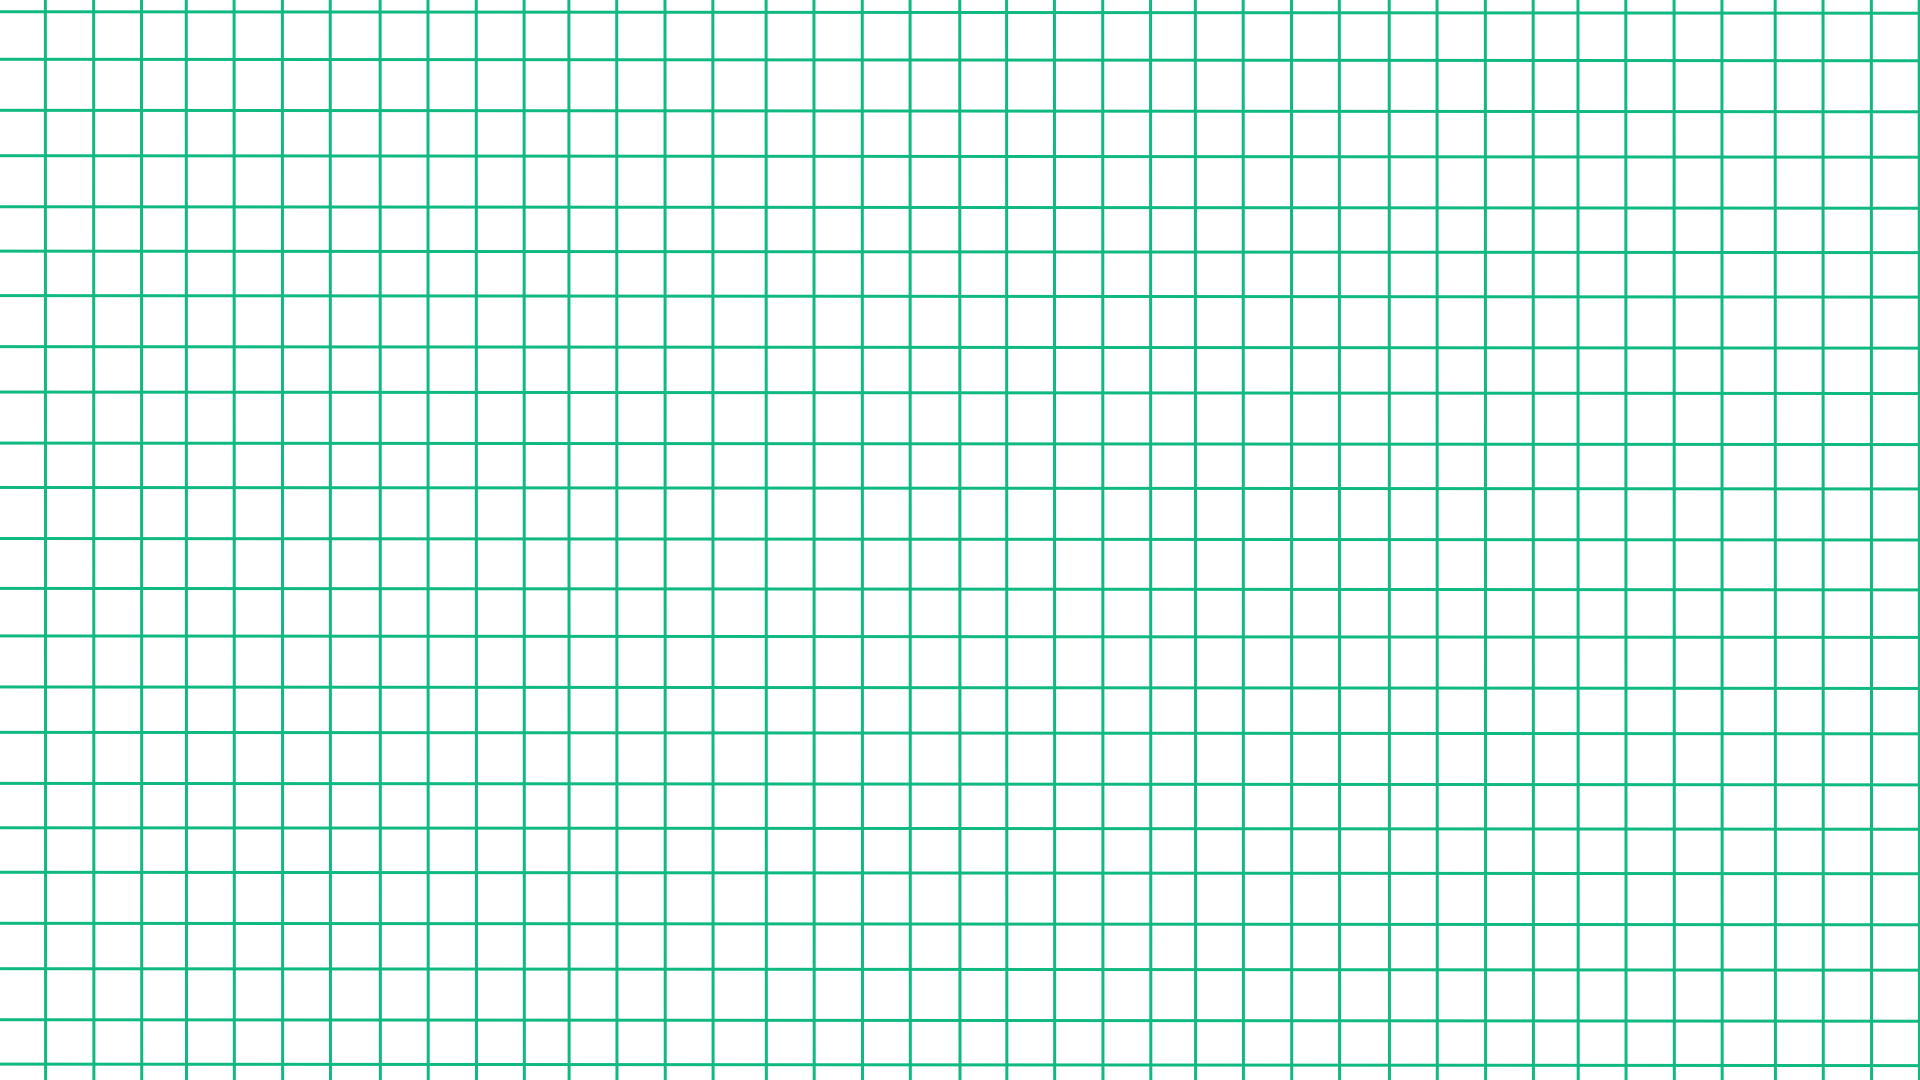
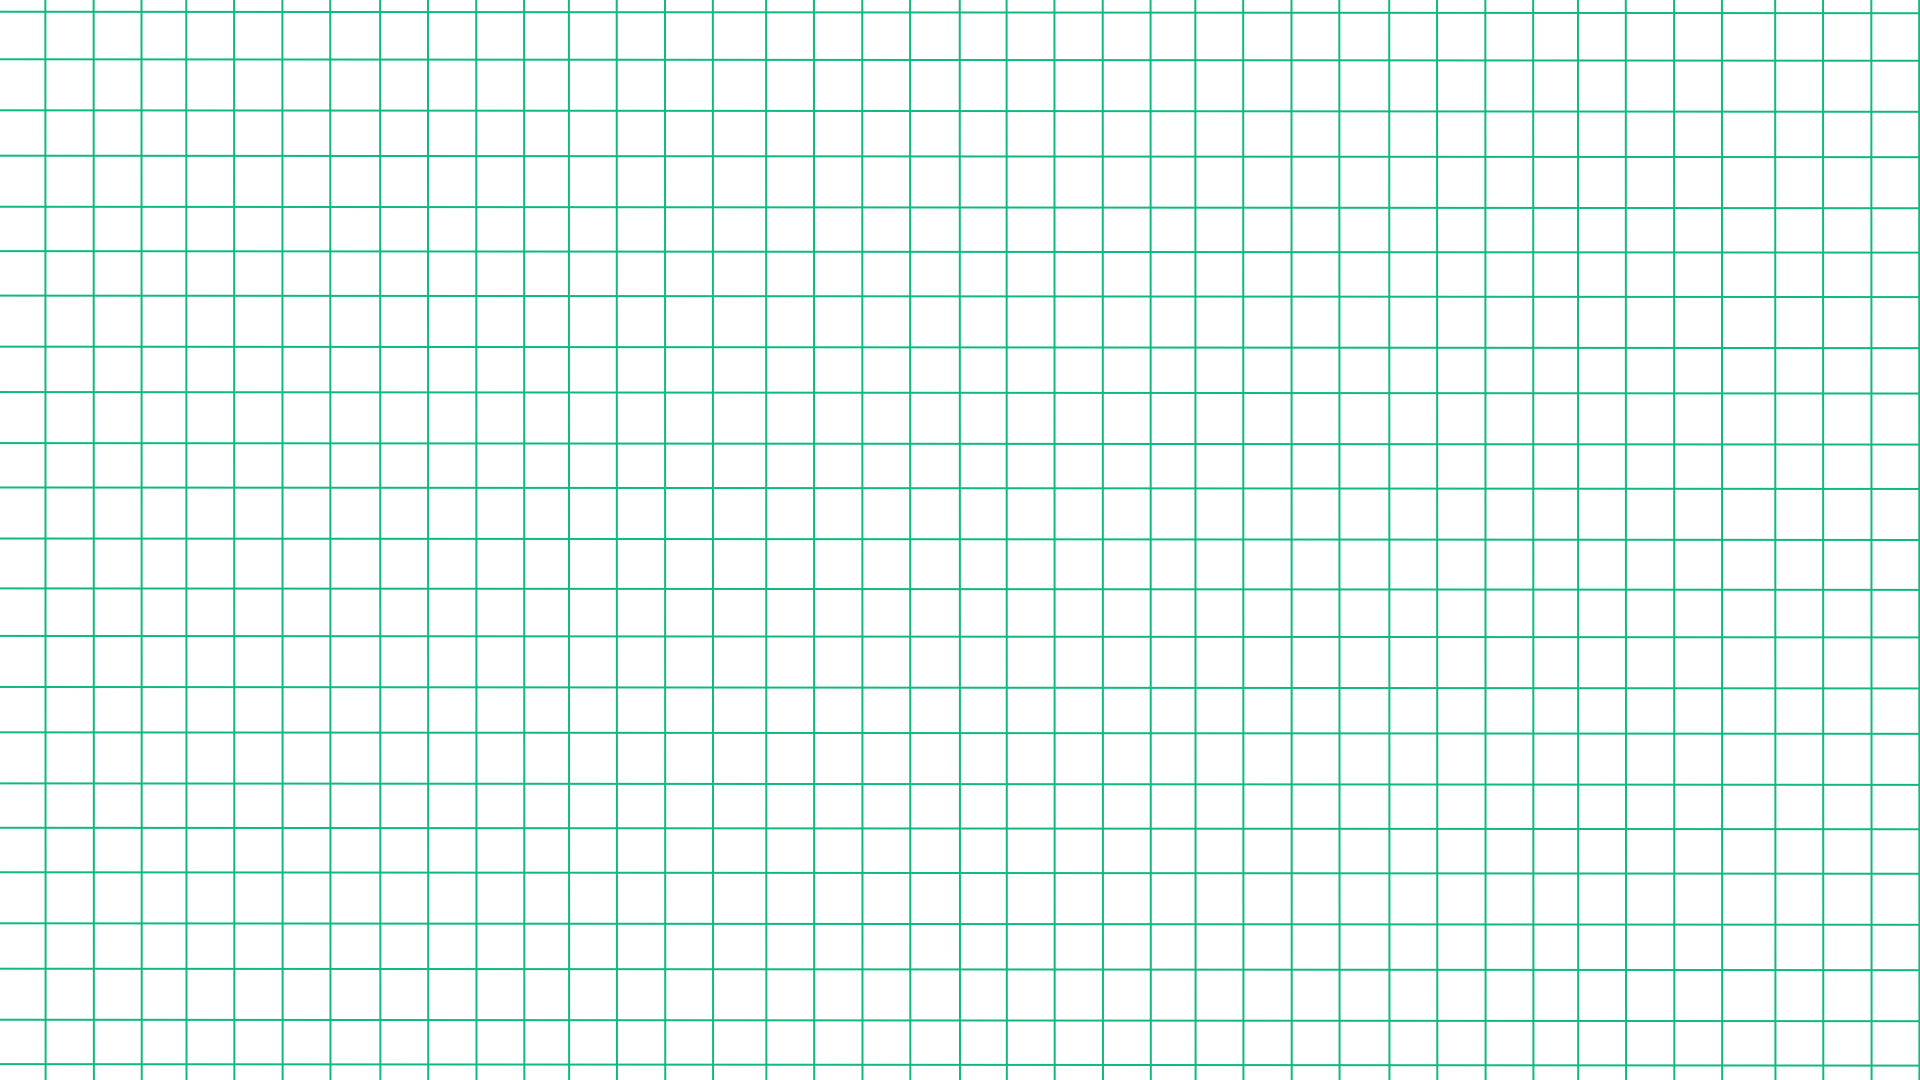
feat: hero & bg

diff --git a/src/app/components/hero/hero.css b/src/app/components/hero/hero.css
@@ -1,0 +1,100 @@
+/* Capa de difuminado detrás de los CONTENEDORES (título, subtítulo, grupo de
+   botones y tag). Va en un ::before con z-index: -1, así queda siempre detrás
+   del contenido y nunca se proyecta encima del texto ni de los elementos. */
+.content-backdrop {
+  position: relative;
+  z-index: 0;
+}
+
+.content-backdrop::before {
+  content: "";
+  position: absolute;
+  inset: -28px;
+  z-index: -1;
+  pointer-events: none;
+  background: radial-gradient(
+    ellipse at center,
+    #000916 0%,
+    #000916 58%,
+    rgba(0, 9, 22, 0.92) 74%,
+    transparent 92%
+  );
+  filter: blur(14px);
+}
+
+.hero-gradient {
+  background: linear-gradient(95deg, #34d399 0%, #6ee7b7 55%, #d6fff1 100%);
+  -webkit-background-clip: text;
+  background-clip: text;
+  color: transparent;
+}
+
+/* Botón primario (relleno verde) */
+.btn-primary {
+  display: inline-flex;
+  align-items: center;
+  justify-content: center;
+  padding: 0.7rem 1.5rem;
+  border-radius: 0.5rem;
+  background-color: #34d399;
+  color: #00160f;
+  font-weight: 600;
+  transition: background-color 0.2s ease, transform 0.2s ease;
+}
+
+.btn-primary:hover {
+  background-color: #6ee7b7;
+  transform: translateY(-1px);
+}
+
+/* Botón secundario (contorno, fondo sólido del color de página) */
+.btn-outline {
+  display: inline-flex;
+  align-items: center;
+  justify-content: center;
+  padding: 0.7rem 1.5rem;
+  border-radius: 0.5rem;
+  border: 1px solid #33415580;
+  background-color: #000916;
+  color: #e2e8f0;
+  font-weight: 500;
+  transition: background-color 0.2s ease, border-color 0.2s ease;
+}
+
+.btn-outline:hover {
+  background-color: #0b1a2e;
+  border-color: #475569;
+}
+
+/* Badge de disponibilidad */
+.availability-badge {
+  display: inline-flex;
+  align-items: center;
+  gap: 0.5rem;
+  padding: 0.5rem 1rem;
+  border-radius: 9999px;
+  border: 1px solid rgba(52, 211, 153, 0.3);
+  background-color: rgba(52, 211, 153, 0.05);
+  color: #cbd5e1;
+  font-size: 0.875rem;
+}
+
+.availability-dot {
+  width: 0.5rem;
+  height: 0.5rem;
+  border-radius: 9999px;
+  background-color: #34d399;
+  animation: availability-pulse 2s infinite;
+}
+
+@keyframes availability-pulse {
+  0% {
+    box-shadow: 0 0 0 0 rgba(52, 211, 153, 0.6);
+  }
+  70% {
+    box-shadow: 0 0 0 6px rgba(52, 211, 153, 0);
+  }
+  100% {
+    box-shadow: 0 0 0 0 rgba(52, 211, 153, 0);
+  }
+}

diff --git a/src/app/components/hero/hero.html b/src/app/components/hero/hero.html
@@ -1,0 +1,29 @@
+<section id="inicio" class="w-full">
+  <div class="mx-auto max-w-4xl px-6 py-20 lg:py-28 flex flex-col items-center text-center">
+    <!-- Título -->
+    <h1 class="content-backdrop text-4xl md:text-5xl lg:text-6xl font-bold leading-tight tracking-tight text-white">
+      <span class="hero-gradient">INGENIERO DE SOFTWARE</span>
+      especializado en arquitecturas web y sistemas distribuidos.
+    </h1>
+
+    <!-- Subtítulo -->
+    <p class="content-backdrop mt-6 max-w-2xl text-sm md:text-base uppercase tracking-wider leading-relaxed text-slate-400">
+      Construyendo aplicaciones escalables, APIs robustas e interfaces de alto
+      rendimiento con un enfoque práctico y orientado a resultados.
+    </p>
+
+    <!-- Acciones -->
+    <div class="content-backdrop mt-8 inline-flex flex-wrap items-center justify-center gap-4">
+      <a href="#proyectos" class="btn-primary">Ver Proyectos</a>
+      <a href="#" class="btn-outline">Descargar CV</a>
+    </div>
+
+    <!-- Disponibilidad -->
+    <div class="content-backdrop mt-6 inline-flex">
+      <span class="availability-badge">
+        <span class="availability-dot"></span>
+        Disponible para nuevos proyectos / contratos
+      </span>
+    </div>
+  </div>
+</section>

diff --git a/src/app/pages/landing/landing.css b/src/app/pages/landing/landing.css
@@ -1,0 +1,33 @@
+.hero-mesh {
+    position: absolute;
+    top: 0;
+    left: 0;
+    right: 0;
+    height: 820px;
+    background-image: url('/images/background-mesh.png');
+    background-repeat: no-repeat;
+    background-position: top center;
+    background-size: cover;
+    opacity: 0.7;
+    pointer-events: none;
+    /* Concentra la rejilla al centro-superior, la desvanece hacia los bordes
+       y difumina el borde superior para que no arranque de golpe */
+    -webkit-mask-image:
+        radial-gradient(
+            ellipse 55% 65% at 50% 22%,
+            #000 0%,
+            rgba(0, 0, 0, 0.55) 45%,
+            transparent 80%
+        ),
+        linear-gradient(to bottom, transparent 0%, #000 18%);
+    -webkit-mask-composite: source-in;
+    mask-image:
+        radial-gradient(
+            ellipse 55% 65% at 50% 22%,
+            #000 0%,
+            rgba(0, 0, 0, 0.55) 45%,
+            transparent 80%
+        ),
+        linear-gradient(to bottom, transparent 0%, #000 18%);
+    mask-composite: intersect;
+}

diff --git a/src/app/pages/landing/landing.html b/src/app/pages/landing/landing.html
@@ -1,11 +1,16 @@
-<main class="w-screen min-h-screen flex flex-col">
-    <header>
+<main class="w-screen min-h-screen flex flex-col relative overflow-hidden">
+    <header class="relative z-20">
         <app-header></app-header>
     </header>
-    <div class="grow">
-        <!-- Contenido principal (hero, habilidades, etc.) -->
+    <div class="grow relative">
+        <!-- Capa de fondo mesh (rejilla) detrás del hero -->
+        <div class="hero-mesh" aria-hidden="true"></div>
+
+        <div class="relative z-10">
+            <app-hero></app-hero>
+        </div>
     </div>
-    <footer>
+    <footer class="relative z-20">
         <app-footer></app-footer>
     </footer>
 </main>

diff --git a/src/app/pages/landing/landing.ts b/src/app/pages/landing/landing.ts
@@ -1,10 +1,11 @@
 import { Component } from '@angular/core';
 import { Header } from "../../components/header/header";
 import { Footer } from "../../components/footer/footer";
+import { Hero } from "../../components/hero/hero";
 
 @Component({
   selector: 'app-landing',
-  imports: [Header, Footer],
+  imports: [Header, Footer, Hero],
   templateUrl: './landing.html',
   styleUrl: './landing.css',
 })

diff --git a/src/app/components/hero/hero.ts b/src/app/components/hero/hero.ts
@@ -1,0 +1,9 @@
+import { Component } from '@angular/core';
+
+@Component({
+  selector: 'app-hero',
+  imports: [],
+  templateUrl: './hero.html',
+  styleUrl: './hero.css',
+})
+export class Hero {}
